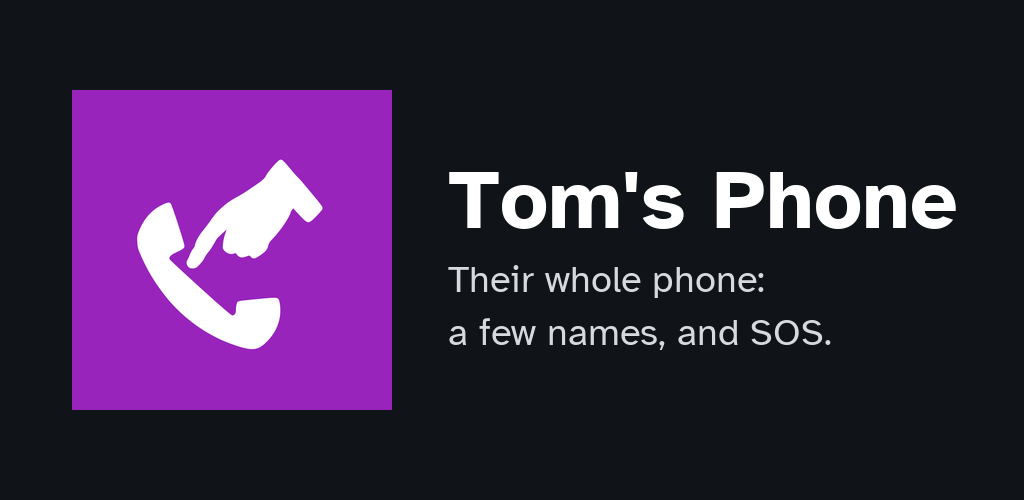
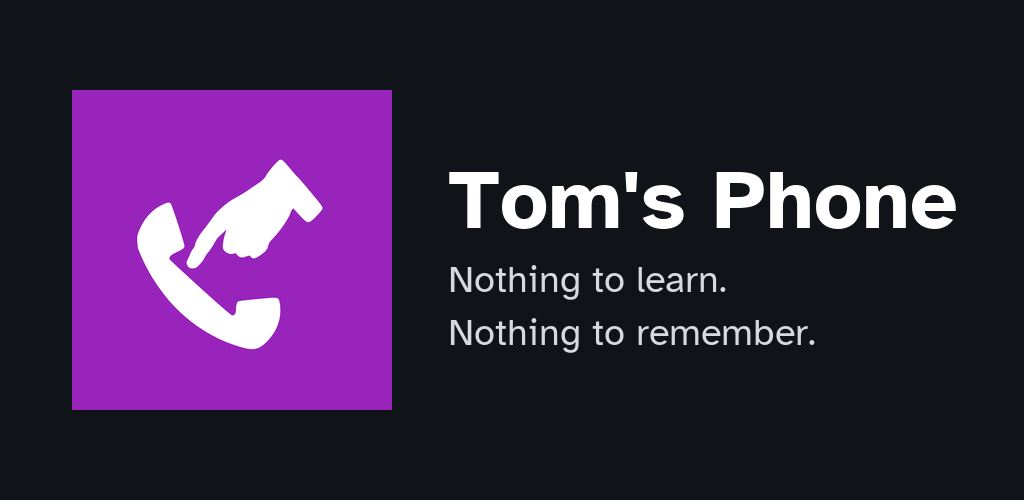
home: the new tag line, "Why I made it", who it is for, and an invitation to write
Follows TP_June26 planning/BRAND_VOICE.md as revised 2026-11-17.

- Hero: "Nothing to learn. Nothing to remember.", with "A big-button phone for Android" above
  it and "You set it up and look after it. They just use it." below.
- "Why I made it" (#story): Ashley's origin story in the first person, including what the
  missed-call reminder and the back-on-charge text did for the helper. Its facts match AGENTS.md §28.
- "Who it is for" by situation, with "Who it isn't for": a phone for calls, no texts, no internet,
  no other apps, on purpose.
- "Tell me what would help" at the end, with the support address.
- Page title and description lead with "big-button phone"; the social image is the regenerated
  feature graphic. Card takes an optional id so other pages can link to a section.

Changed region(s): [[0.4375, 0.63, 0.8125, 0.72], [0.4375, 0.51, 0.75, 0.6]]

diff --git a/app/page.tsx b/app/page.tsx
@@ -11,6 +11,11 @@ import { Card, Container, H2, Hero } from "./_components/Chrome";
  * so a claim appears here only if it appears there. The order of claims is the ranked USP list
  * (planning/USPS.md); the screenshots carry USP #2 — the same phone set up several ways — so the
  * page need not say "configurable" in words. Re-cut 2026-11-15.
+ *
+ * 2026-11-17 (BRAND_VOICE.md §1, §2, §8): the new tag line; "Why I made it", Ashley's origin story
+ * in the first person (its facts match AGENTS.md §28; it is not on the Play listing); who it is for
+ * and who it isn't for; and the invitation to say what would help. Section order is BRAND_VOICE §8,
+ * item 4.
  */
 
 const PLAY_URL =
@@ -118,15 +123,17 @@ export default function HomePage() {
   return (
     <Container>
       <Hero
-        eyebrow="For Android phones"
-        title="Their whole phone: a few names, and SOS."
+        eyebrow="A big-button phone for Android"
+        title="Nothing to learn. Nothing to remember."
       >
         <p className="m-0 text-lg">
-          Tom&apos;s Phone turns an ordinary Android phone into a dedicated
-          phone for an older or vulnerable person, set up and looked after by
-          you. Their whole phone becomes one screen: their name at the top, a
-          few large buttons with the names of the people they call, and an SOS
-          button. Pressing a name makes the call.
+          Tom&apos;s Phone turns an ordinary Android phone into one simple
+          screen for someone a smartphone has become too much for: their name
+          at the top, a few big buttons with the names of the people they
+          call, and an SOS button. They press a name, and it calls.
+        </p>
+        <p className="mt-3 mb-0 text-lg">
+          You set it up and look after it. They just use it.
         </p>
         <p className="mt-5 mb-0 flex flex-wrap gap-3">
           <a
@@ -183,6 +190,29 @@ export default function HomePage() {
         </div>
       </Card>
 
+      <Card id="story">
+        <H2>Why I made it</H2>
+        <p>
+          I built the first Tom&apos;s Phone for my mum when she was 96. She
+          had tried phones made for older people and couldn&apos;t learn
+          another one. She needed to make and answer a call with one tap,
+          however tired or confused she was.
+        </p>
+        <p>
+          What I didn&apos;t expect was how much the missed-call reminder would
+          matter. If Mum missed my call because she was asleep or in another
+          room, her phone told her, by name, to ring me back, and kept telling
+          her until she did. I no longer had to keep ringing back. And a text
+          when her phone went back on charge told me the battery hadn&apos;t
+          died. I found that very reassuring.
+        </p>
+        <p>
+          Every family is different, so I rebuilt it for anyone to set up for
+          the person they look after, as simple or as full as they can manage.
+        </p>
+        <p className="mb-0 font-semibold">Ashley</p>
+      </Card>
+
       <Card>
         <H2>For you, the helper</H2>
         <div className="grid gap-6 sm:grid-cols-2">
@@ -193,6 +223,35 @@ export default function HomePage() {
             </div>
           ))}
         </div>
+      </Card>
+
+      <Card>
+        <H2>Who it is for</H2>
+        <p>
+          Someone who used to manage a phone and now finds a smartphone too
+          much. They can still hold a conversation and still want to call
+          their family. The phone is the part that stopped working. Families
+          set it up for:
+        </p>
+        <ul className="mt-0 mb-4 list-disc pl-5">
+          <li>a parent whose eyesight or hands aren&apos;t what they were</li>
+          <li>someone whose memory comes and goes</li>
+          <li>
+            someone who holds a phone their own way, or rests a finger on the
+            screen without meaning to
+          </li>
+          <li>someone who has never got on with a smartphone</li>
+        </ul>
+        <p>
+          And it is for the person looking after them, who is tired of hearing{" "}
+          <em>&ldquo;I pressed something and now it won&apos;t work.&rdquo;</em>
+        </p>
+        <h3 className="mt-6 mb-1.5 font-bold">Who it isn&apos;t for</h3>
+        <p className="mb-0">
+          If they can already open and use other apps reliably, they don&apos;t
+          need Tom&apos;s Phone. It is a phone for calls: no texts, no internet,
+          no other apps. That is on purpose.
+        </p>
       </Card>
 
       <Card>
@@ -213,21 +272,6 @@ export default function HomePage() {
             privacy policy
           </Link>{" "}
           says all of this in full.
-        </p>
-      </Card>
-
-      <Card>
-        <H2>Who it is for</H2>
-        <p>
-          Someone who used to manage a phone and now finds a smartphone
-          bewildering &mdash; poor eyesight, shaky hands, a memory that comes
-          and goes, or simply never having got on with it. They can still hold
-          a conversation and still want to call their family. The phone is the
-          part that stopped working.
-        </p>
-        <p className="mb-0">
-          And it is for the person looking after them, who is tired of hearing{" "}
-          <em>&ldquo;I pressed something and now it won&apos;t work.&rdquo;</em>
         </p>
       </Card>
 
@@ -263,6 +307,19 @@ export default function HomePage() {
           button and missed-call reminders are never affected. What locks is
           the helper&apos;s settings area; backing up, resetting and Exit app
           are never locked.
+        </p>
+      </Card>
+
+      <Card>
+        <H2>Tell me what would help</H2>
+        <p className="mb-0">
+          Tom&apos;s Phone is made by one person, and I keep changing it. If
+          something would make it work better for the person you look after,
+          write to me at{" "}
+          <a href="mailto:support@toms-phone.com" className="text-brand">
+            support@toms-phone.com
+          </a>
+          , and tell me who you set it up for.
         </p>
       </Card>
     </Container>

diff --git a/app/layout.tsx b/app/layout.tsx
@@ -16,18 +16,18 @@ const geistMono = Geist_Mono({
 export const metadata: Metadata = {
   metadataBase: new URL("https://www.toms-phone.com"),
   title: {
-    default: "Tom's Phone — their whole phone: a few names, and SOS",
+    default: "Tom's Phone — a big-button phone with nothing to learn",
     template: "%s | Tom's Phone",
   },
   description:
-    "One-tap calling and an SOS button for someone you look after. You set it up. Tom's Phone turns an ordinary Android phone into a dedicated phone: a few large named buttons, an SOS button, and nothing to wander into.",
+    "Big-button phone for someone you look after: tap a name to call, plus SOS. Tom's Phone turns an ordinary Android phone into one simple screen: a few large named buttons, an SOS button, and nothing to wander into. You set it up; they just use it.",
   openGraph: {
     type: "website",
     siteName: "Tom's Phone",
     url: "https://www.toms-phone.com",
-    title: "Tom's Phone — their whole phone: a few names, and SOS",
+    title: "Tom's Phone — nothing to learn, nothing to remember",
     description:
-      "One-tap calling and an SOS button for someone you look after. You set it up.",
+      "Big-button phone for someone you look after: tap a name to call, plus SOS.",
     images: ["/screenshots/feature_graphic_1024x500.png"],
   },
 };

diff --git a/app/_components/Chrome.tsx b/app/_components/Chrome.tsx
@@ -102,12 +102,16 @@ export function Hero({
 export function Card({
   children,
   className = "",
+  id,
 }: {
   children: React.ReactNode;
   className?: string;
+  /** An anchor other pages can link to, e.g. the company site's link to /#story. */
+  id?: string;
 }) {
   return (
     <section
+      id={id}
       className={`mb-6 rounded-3xl border border-line bg-card p-7 leading-relaxed shadow-[0_12px_36px_rgba(31,22,48,0.04)] ${className}`}
     >
       {children}
